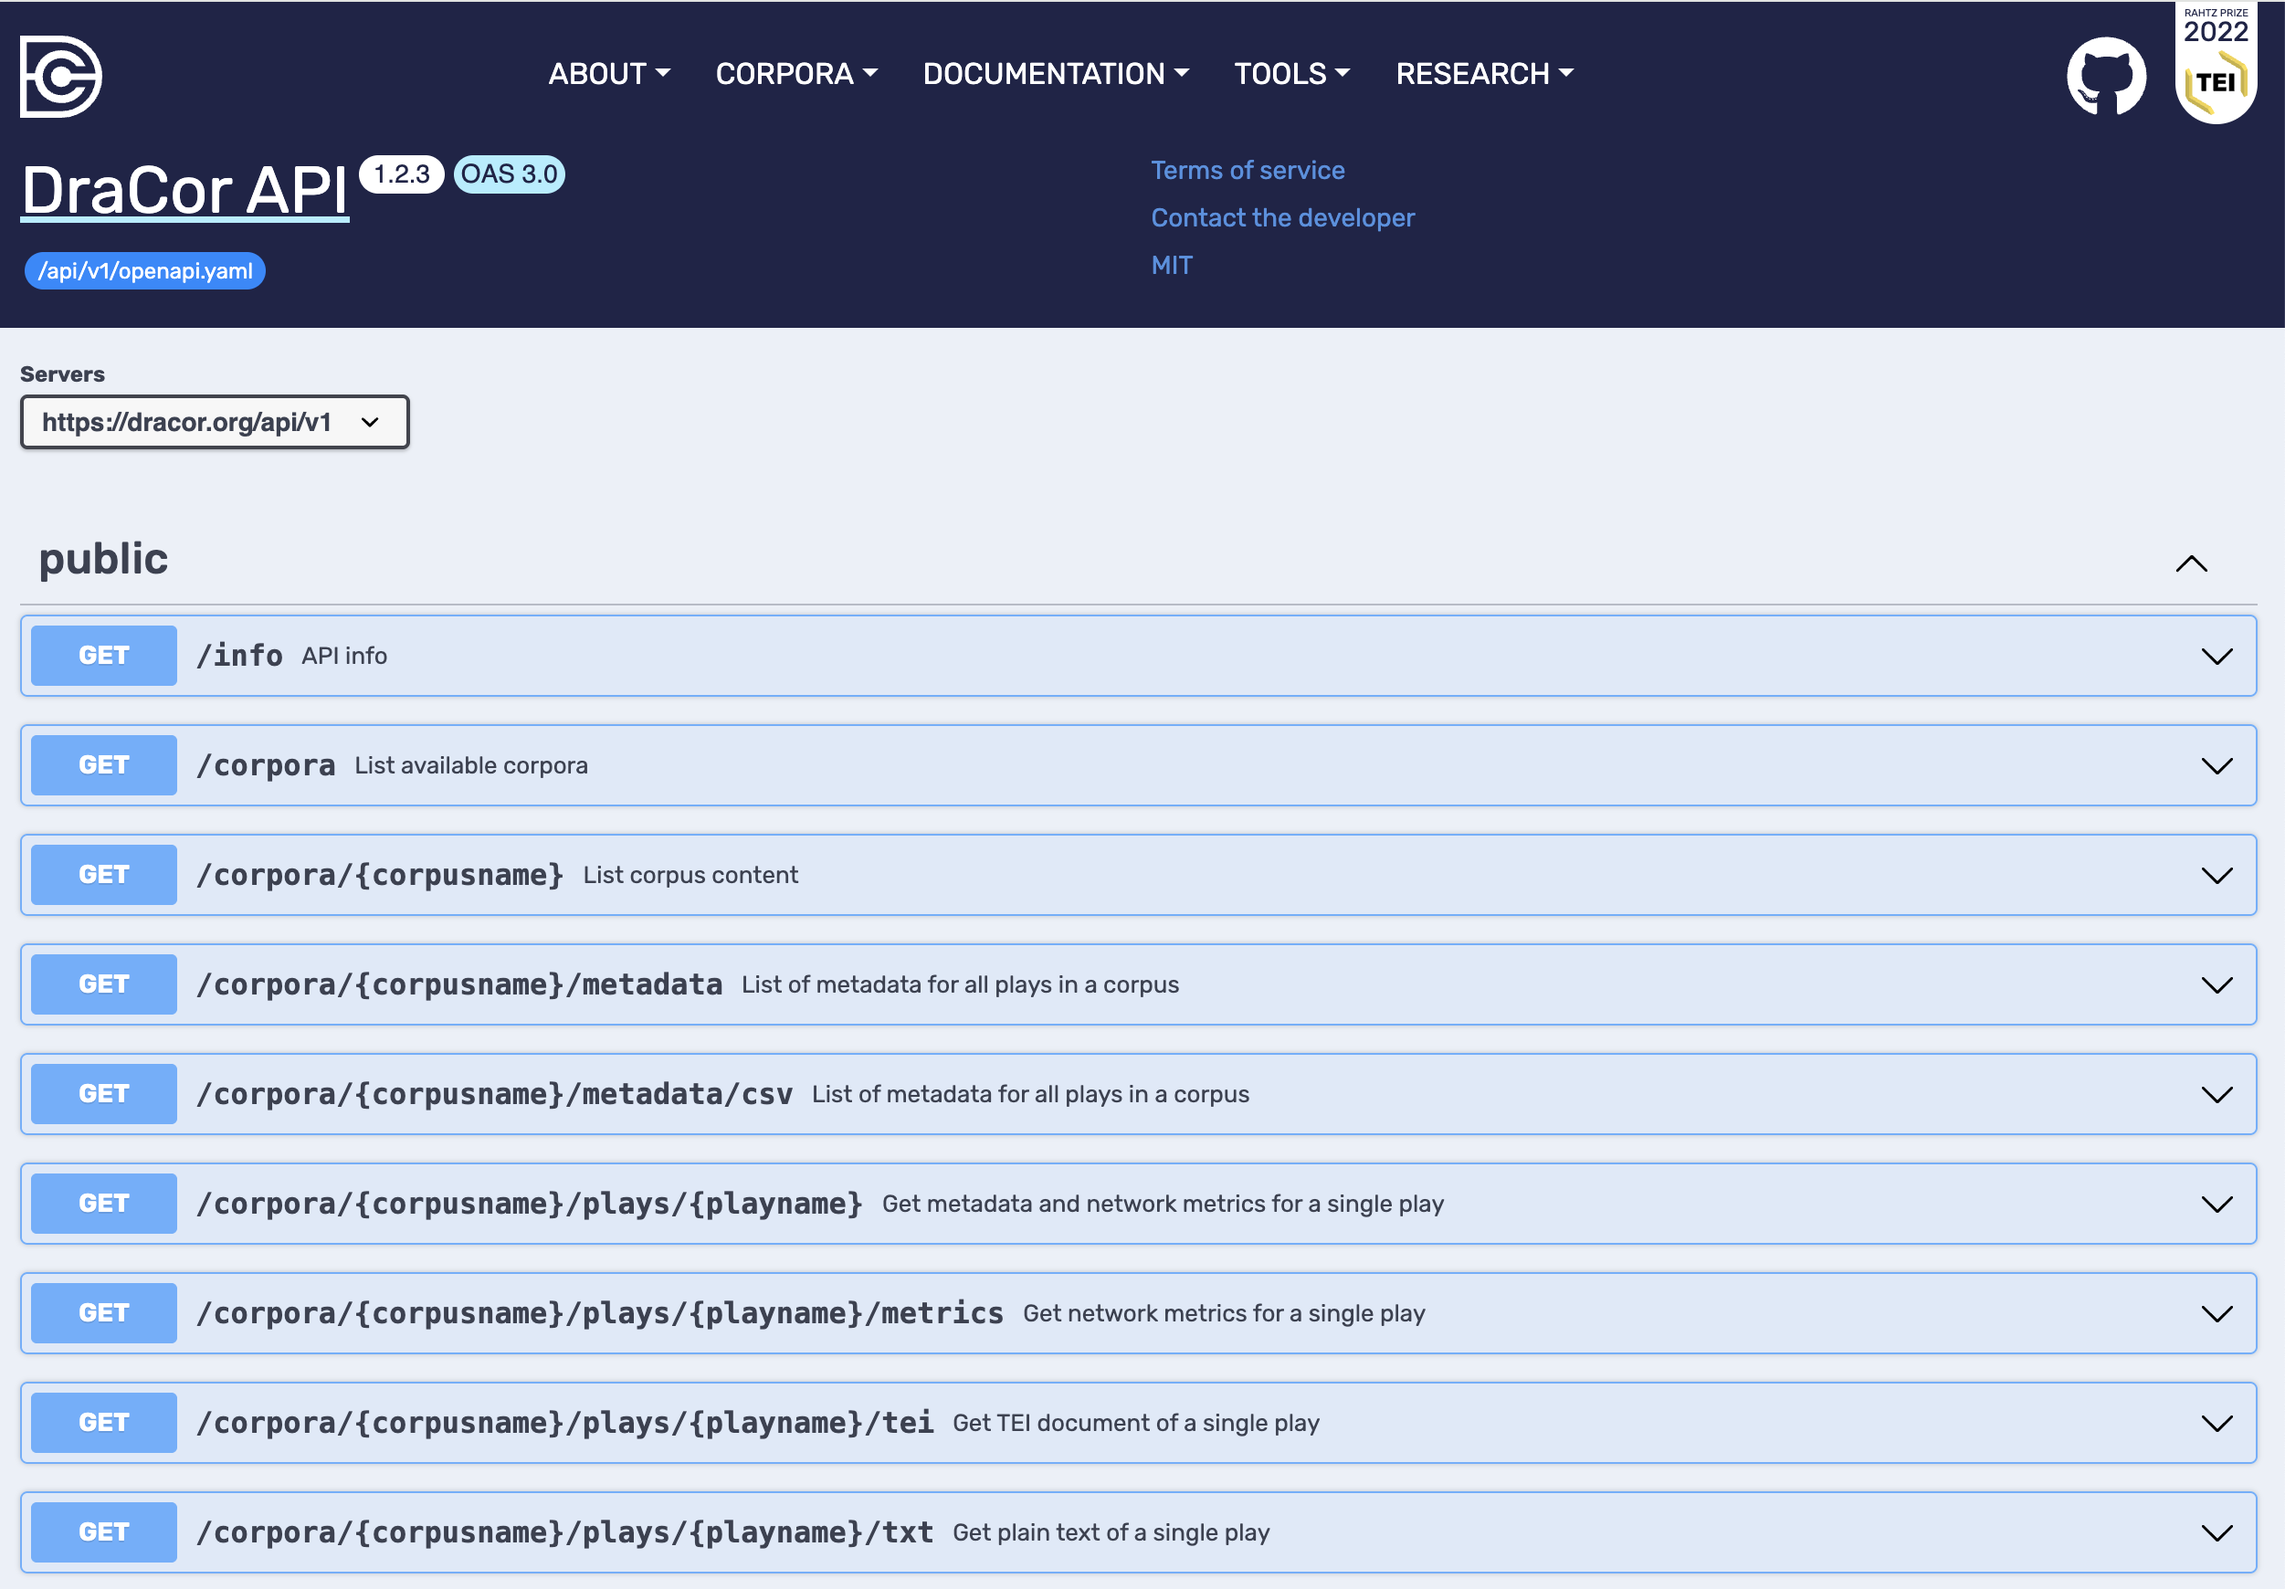
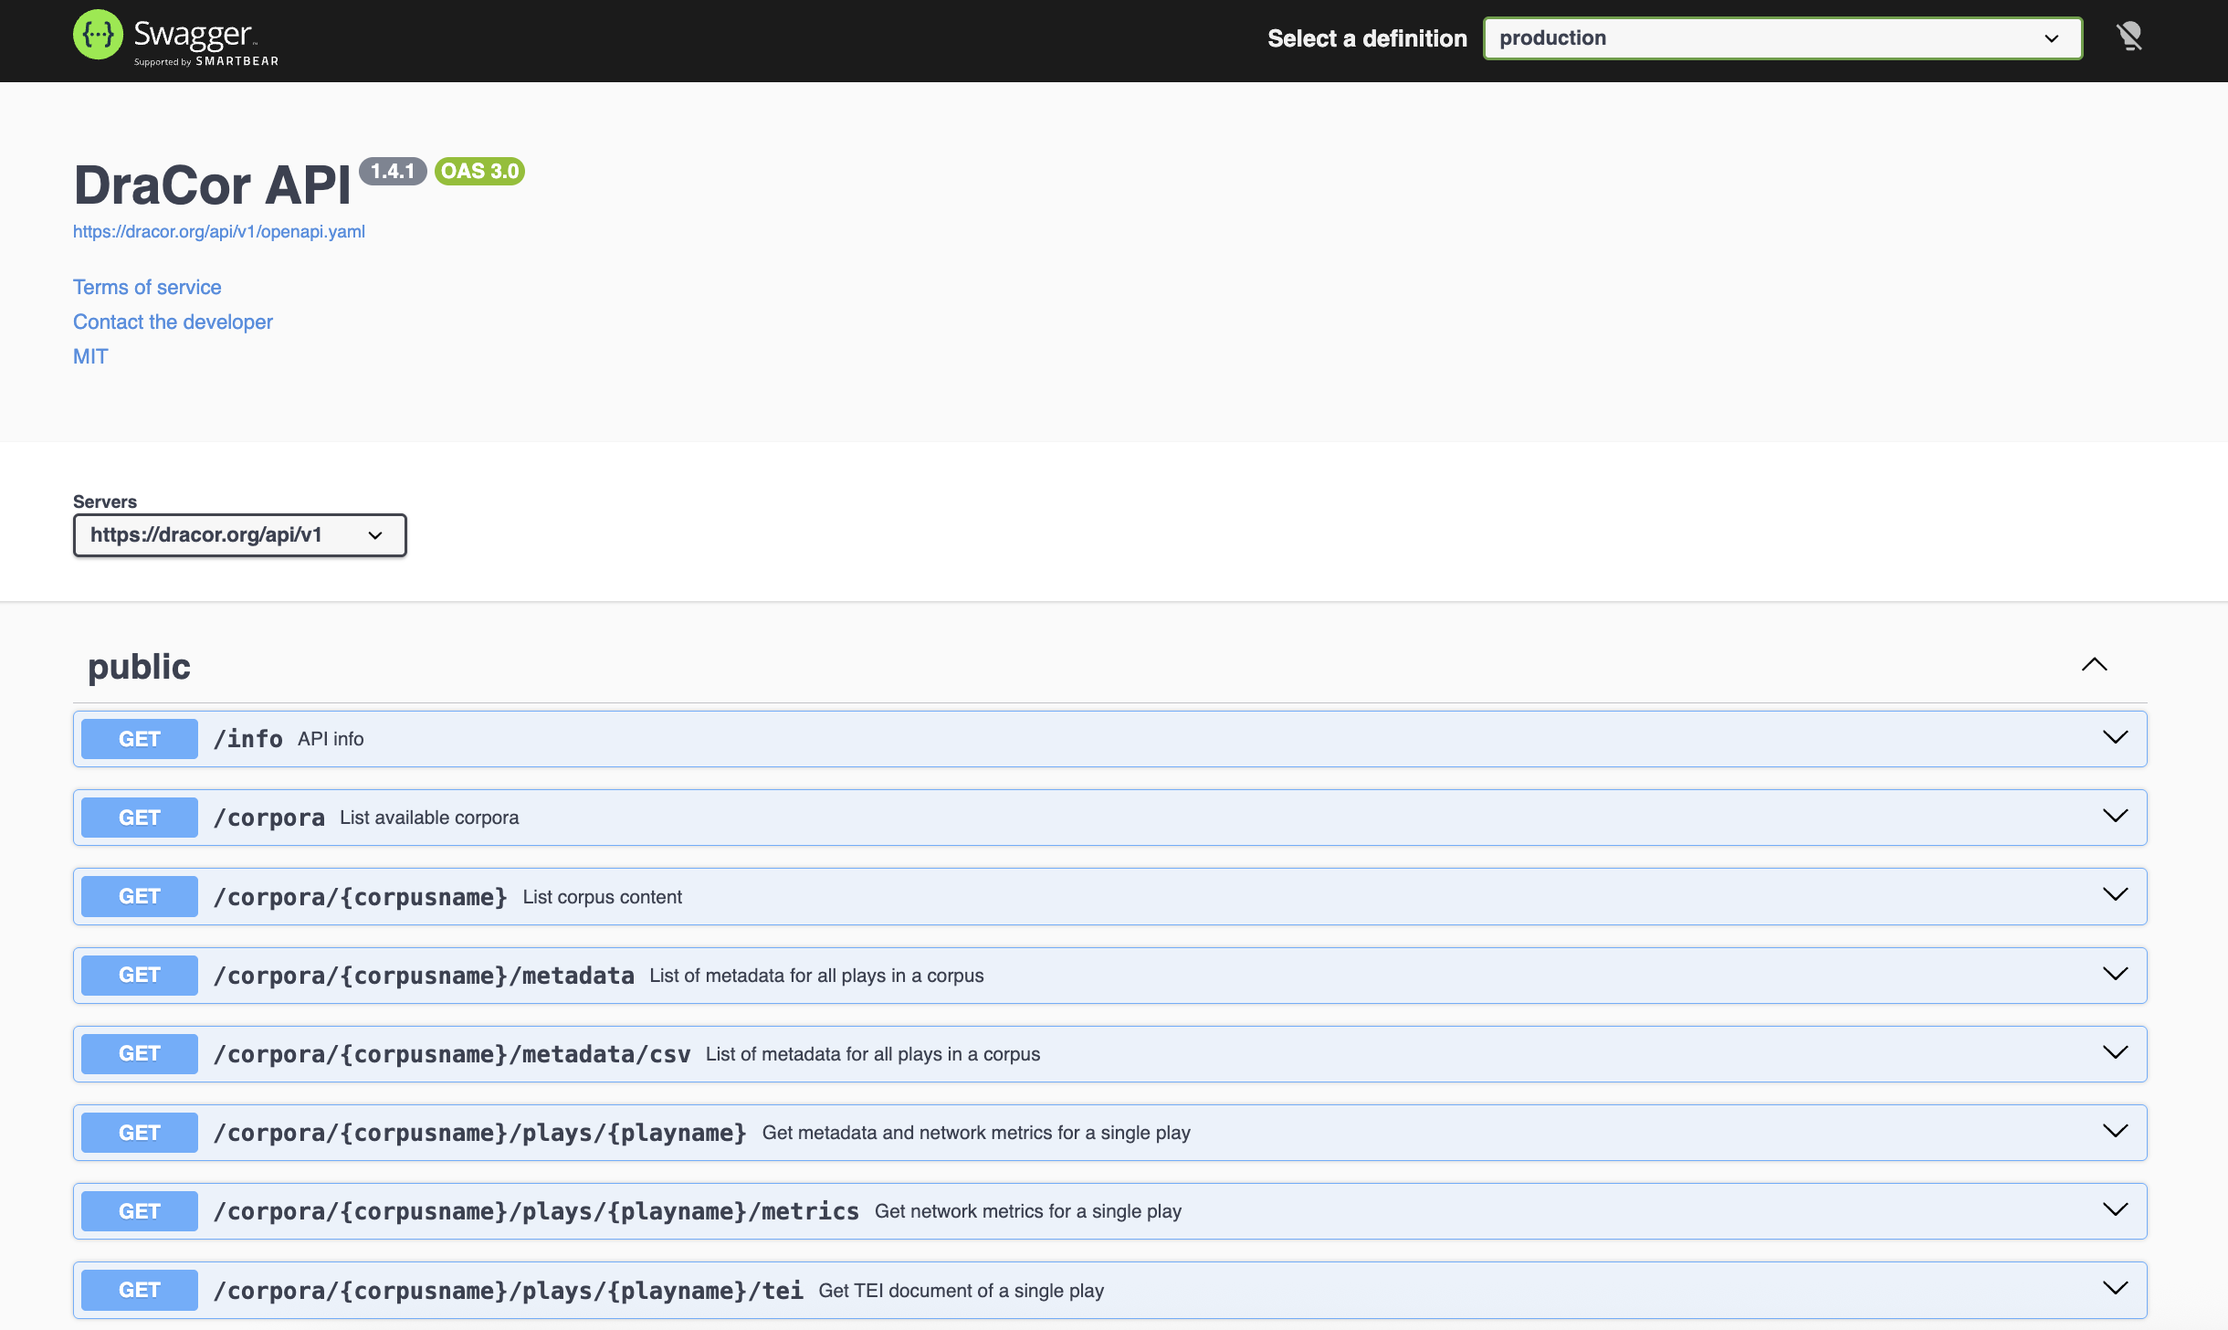
Point chapter 5 to swagger.dracor.org and announce Scalar
- Link the Swagger UI at swagger.dracor.org instead of dracor.org/doc/api
  (chapter text, figure caption, further reading, self-test Q1)
- Add a paragraph explaining that dracor.org/doc/api uses Scalar from
  front-end version 3 onwards
- Replace the two overview screenshots with captures of
  swagger.dracor.org (API 1.4.1)

diff --git a/docs/chapters/05-api-working-with-dracor-programmatically.md b/docs/chapters/05-api-working-with-dracor-programmatically.md
@@ -92,7 +92,9 @@ If you have the DraCor front-end open alongside this chapter, you can compare wh
 
 ### 5.1. Exploring the API Documentation (Swagger UI)
 
-Before we make our first request, we need to know what the API offers. The DraCor API is documented using the [OpenAPI Specification](https://spec.openapis.org/oas/latest.html) — a standardised, machine-readable format for describing API endpoints, their parameters, and their responses {cite}`borner2025cls`. This specification is rendered as an interactive website using Swagger UI, accessible at [https://dracor.org/doc/api](https://dracor.org/doc/api).[^openapi-yaml]
+Before we make our first request, we need to know what the API offers. The DraCor API is documented using the [OpenAPI Specification](https://spec.openapis.org/oas/latest.html) — a standardised, machine-readable format for describing API endpoints, their parameters, and their responses {cite}`borner2025cls`. This specification is rendered as an interactive website using Swagger UI, accessible at [https://swagger.dracor.org](https://swagger.dracor.org).[^openapi-yaml]
+
+The DraCor front-end also links to an API documentation page at [dracor.org/doc/api](https://dracor.org/doc/api). From version 3 of the front-end, this page uses a different tool, [Scalar](https://scalar.com), which renders the same OpenAPI specification in a different layout. The Swagger UI at swagger.dracor.org remains available, and this chapter uses it throughout.
 
 [^openapi-yaml]: The OpenAPI specification file of the DraCor API (`api.yaml`) can be found at [https://github.com/dracor-org/dracor-api/blob/main/api.yaml](https://github.com/dracor-org/dracor-api/blob/main/api.yaml).
 
@@ -110,7 +112,7 @@ When we open the Swagger UI, we see the API endpoints grouped by *tags*: **publi
 alt: "Swagger UI showing the DraCor API with public endpoints listed: /info, /corpora, /corpora/{corpusname}, and more."
 width: 100%
 ---
-The DraCor API documentation in Swagger UI at [dracor.org/doc/api](https://dracor.org/doc/api). The public endpoints are listed with their HTTP method (GET), path and a short description.
+The DraCor API documentation in Swagger UI at [swagger.dracor.org](https://swagger.dracor.org). The public endpoints are listed with their HTTP method (GET), path and a short description.
 ```
 
 ```{figure} ../images/api/openapi-spec-smaller.png
@@ -708,7 +710,7 @@ Lecturers may also use this chapter as a bridge from interface-based exploration
 
 ## 8. Further Reading and Resources
 
-- DraCor API documentation (Swagger UI): [https://dracor.org/doc/api](https://dracor.org/doc/api)
+- DraCor API documentation (Swagger UI): [https://swagger.dracor.org](https://swagger.dracor.org)
 - Henny Sluyter-Gäthje's API tutorial notebook: [dracor-notebooks on GitHub](https://github.com/dracor-org/dracor-notebooks)
 - Spadini, Elena and Peter Dängeli. "Introduction to APIs (for DH)." Presentation at the RESED Workshop, Zurich, January 2026.
 - Hall, Mark. "Introduction to APIs." DARIAH Campus, 2021. [https://campus.dariah.eu/resources/hosted/introduction-to-apis](https://campus.dariah.eu/resources/hosted/introduction-to-apis)

diff --git a/docs/assessment/05-api-working-with-dracor-assessment.md b/docs/assessment/05-api-working-with-dracor-assessment.md
@@ -33,7 +33,7 @@ q1 = [{
   "question": "In the DraCor context, what does the API primarily do?",
   "type": "multiple_choice",
   "answers": [
-    {"answer": "It is the documentation website at https://dracor.org/doc/api", "correct": False,
+    {"answer": "It is the documentation website at https://swagger.dracor.org", "correct": False,
      "feedback": "Not quite. That is the Swagger UI documentation *about* the API."},
     {"answer": "It is the programmatic interface that returns data (e.g. JSON, CSV, TEI/XML) at https://dracor.org/api/v1/", "correct": True,
      "feedback": "Correct. The API is the data and service interface, and the front-end is one client of it."},
